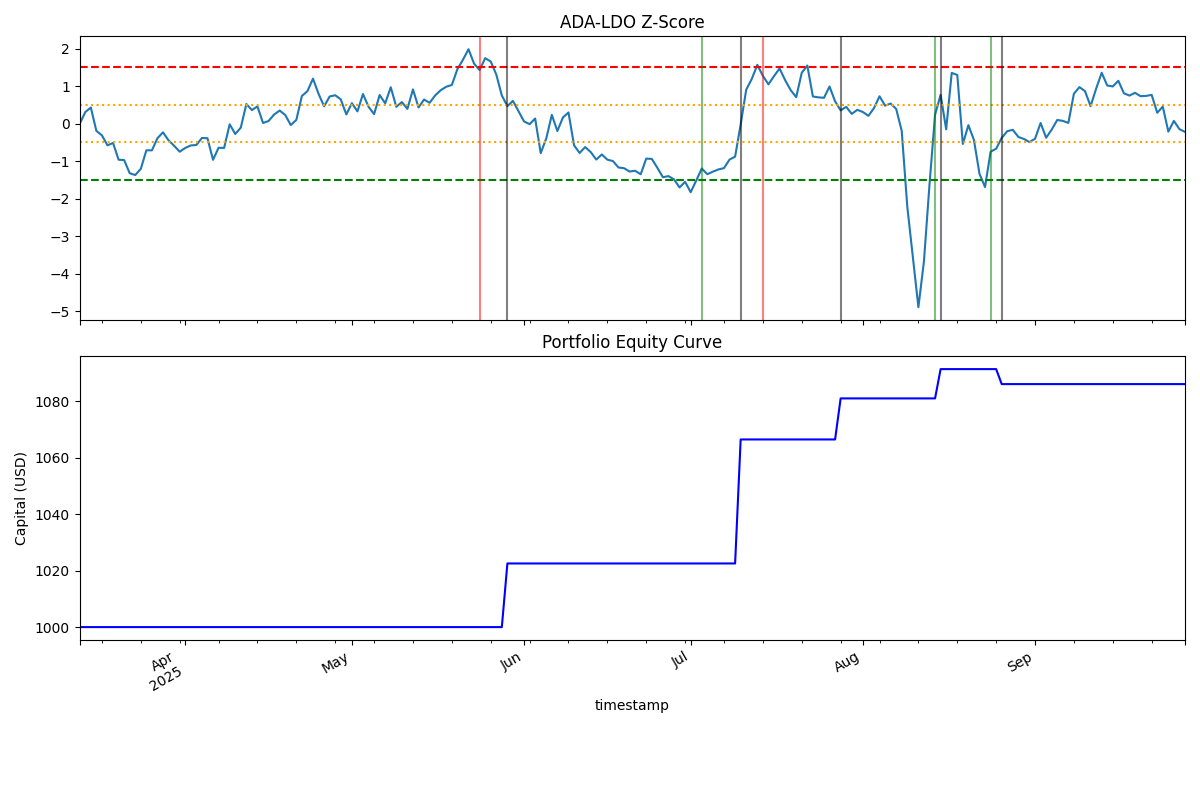
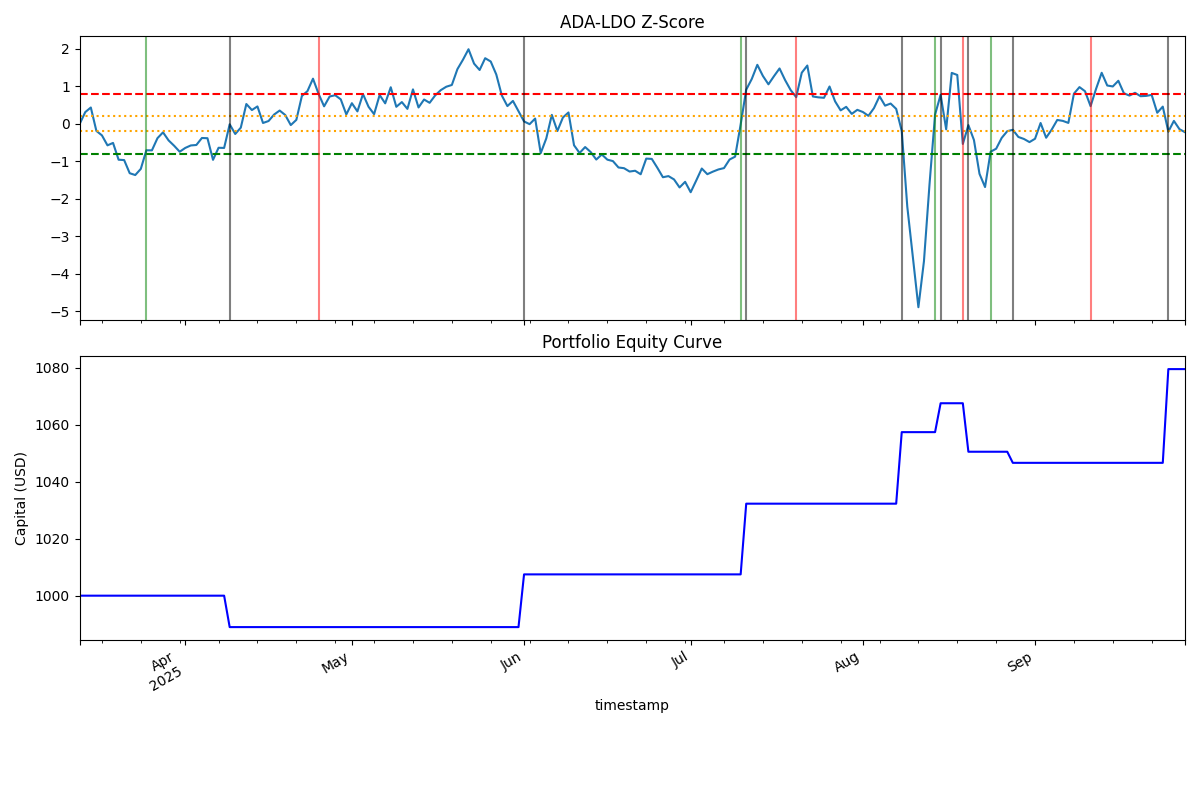
feat(statarb): Configure backtester for DOT-PEPE pair
Updates statarb_backtester.py to test the newly found cointegrated pair, DOT-PEPE. Resets strategy parameters to a standard baseline for the initial backtest. Fixes a lingering FutureWarning in the analysis script.

diff --git a/statarb_backtester.py b/statarb_backtester.py
@@ -13,12 +13,12 @@ from utils.logger import log
 
 # --- Configuration ---
 # The pair we found in Phase 1
-SYMBOL_1 = 'ADA'
-SYMBOL_2 = 'LDO'
+SYMBOL_1 = 'DOT'
+SYMBOL_2 = 'PEPE'
 
 # Strategy Parameters
-ENTRY_Z_SCORE = 0.8
-EXIT_Z_SCORE = 0.2
+ENTRY_Z_SCORE = 2.0
+EXIT_Z_SCORE = 0.5
 STOP_LOSS_Z_SCORE = 3.0
 
 # Financial Parameters

diff --git a/analysis/pair_finder.py b/analysis/pair_finder.py
@@ -138,7 +138,7 @@ def analyze_and_plot_pair(pair_string):
     y = series1
     x = sm.add_constant(series2)
     model = sm.OLS(y, x).fit()
-    hedge_ratio = model.params[1]
+    hedge_ratio = model.params.iloc[1]
     spread = series1 - hedge_ratio * series2
 
     log.info(f"Calculated hedge ratio: {hedge_ratio:.4f}")
